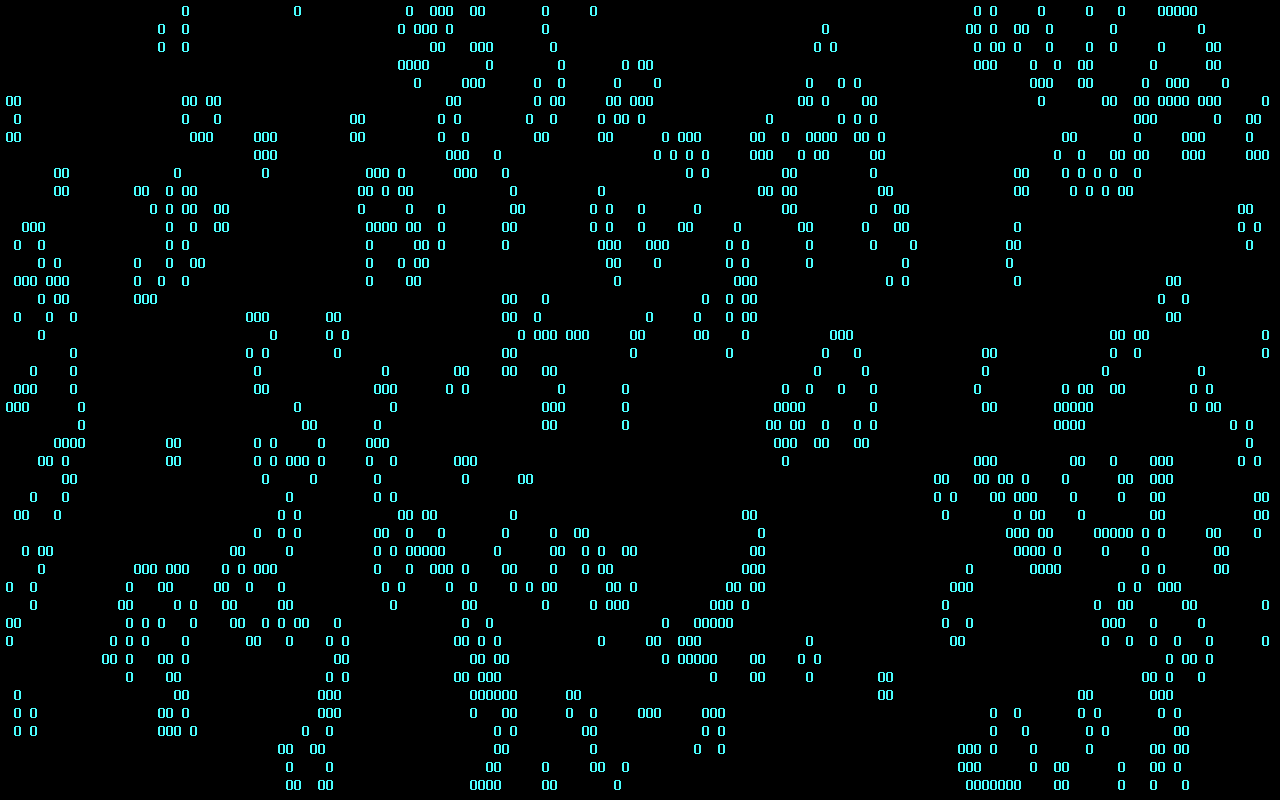
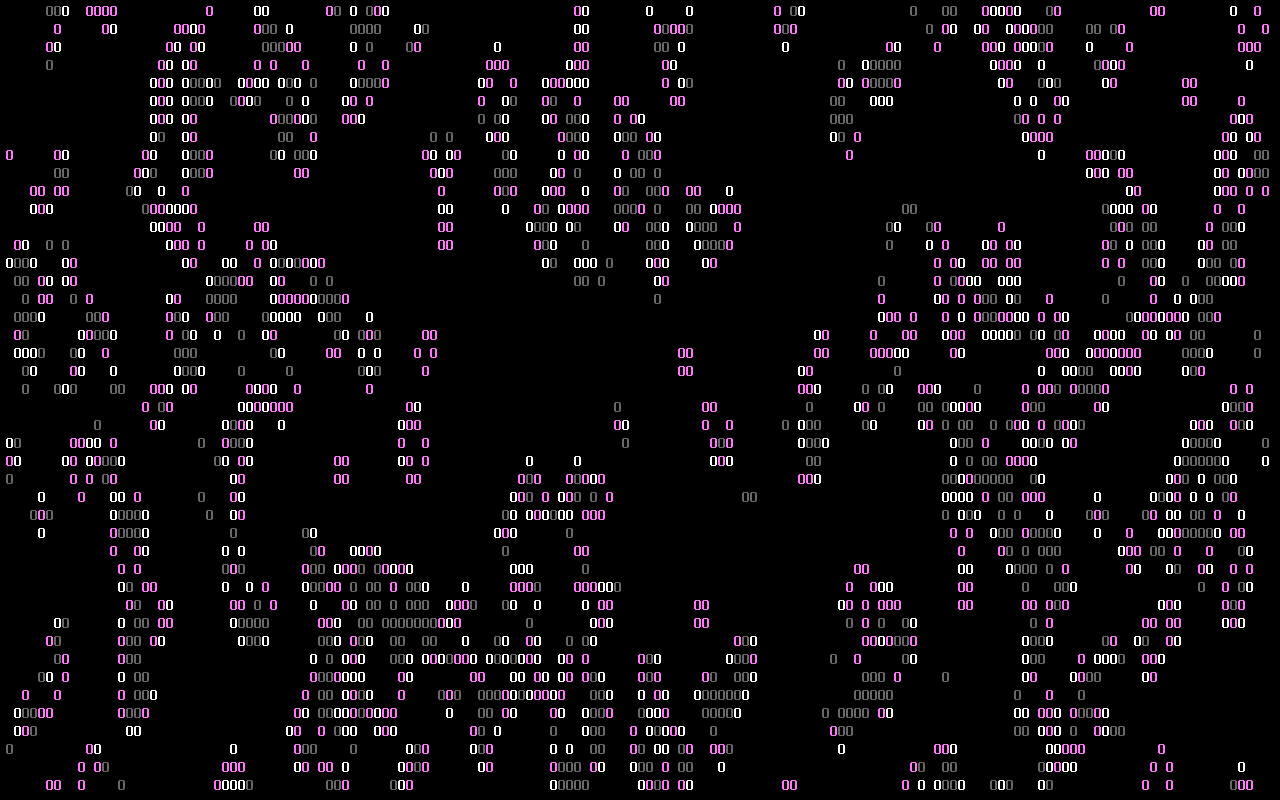
add birth/life/death colours

diff --git a/life.py b/life.py
@@ -11,10 +11,15 @@ import scipy.signal as signal
 # 
 
 CELL_CHAR  = b"O"
-CELL_COLOR = curses.COLOR_GREEN
 
-SLEEP_TIME = 0.07 # seconds
+CELL_COLOR = curses.COLOR_MAGENTA
+BORN_COLOR = curses.COLOR_WHITE
+DIED_COLOR = curses.COLOR_BLACK
 
+FRAMES_SEC = 12
+SLEEP_TIME = 1 / FRAMES_SEC
+
+# TODO: animated characters?
 
 # # #
 # Conway's Game of Life
@@ -37,16 +42,20 @@ class Game:
             (self.h, self.w),
             p=[0.75, 0.25],
         )
+        self.b = np.zeros_like(self.a)
     def update(self):
+        self.b = self.a
         counts = signal.convolve2d(
-            self.a,
+            self.b,
             KERNEL,
             mode='same',
             boundary='wrap',
         )
-        self.a = (self.a & (counts == 2)) | (counts == 3)
+        self.a = (self.b & (counts == 2)) | (counts == 3)
     def status(self):
         return self.a
+    def status_color(self):
+        return self.b + 2*self.a
 
 
 def main(stdscr):
@@ -54,9 +63,7 @@ def main(stdscr):
     curses.curs_set(False)
     stdscr.nodelay(True)
     # prepare colors
-    curses.use_default_colors()
-    curses.init_pair(1, CELL_COLOR, -1) # -1: transparent background
-    cell_attr = curses.color_pair(1) | curses.A_BOLD
+    attr_map = prepare_colors()
     # start life
     game = Game(
         height=curses.LINES,
@@ -66,14 +73,26 @@ def main(stdscr):
     while stdscr.getch() < 0:
         # paint screen
         stdscr.clear()
-        for i, j in np.transpose(np.where(game.status())):
-            stdscr.insch(i, j, CELL_CHAR, cell_attr)
+        a = game.status_color()
+        for i, j, in np.transpose(np.where(a > 0)):
+            stdscr.insch(i, j, CELL_CHAR, attr_map[a[i, j]])
         stdscr.refresh()
         # update life
         game.update()
         time.sleep(SLEEP_TIME)
 
 
+def prepare_colors():
+    curses.use_default_colors()
+    curses.init_pair(1, CELL_COLOR, -1)
+    curses.init_pair(2, BORN_COLOR, -1)
+    curses.init_pair(3, DIED_COLOR, -1)
+    return (
+        0,
+        curses.color_pair(3) | curses.A_BOLD,
+        curses.color_pair(2) | curses.A_BOLD,
+        curses.color_pair(1) | curses.A_BOLD,
+    )
 
 
 if __name__ == "__main__":
